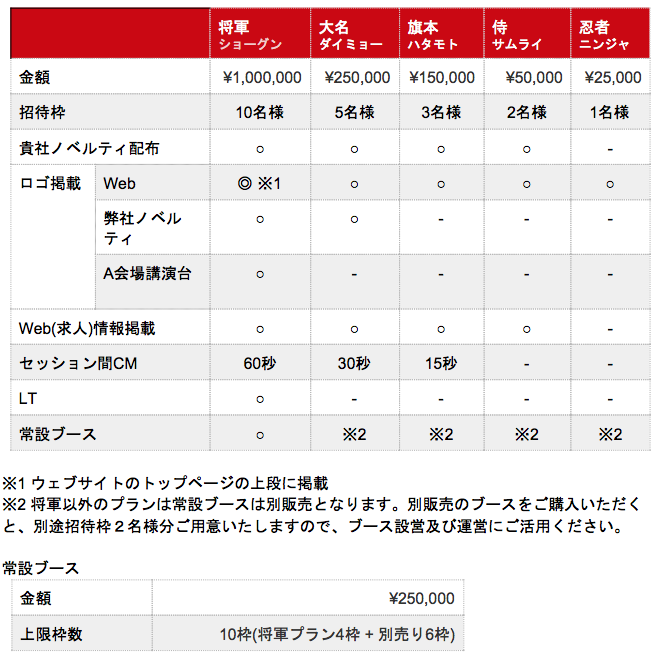
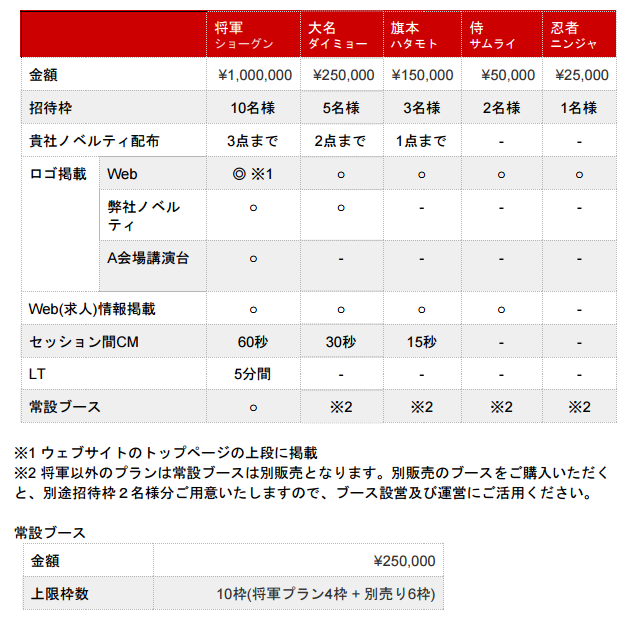
Changed sponsor plan table
Fixes #225

diff --git a/ja/sponsors/index.html b/ja/sponsors/index.html
@@ -27,7 +27,7 @@ title: スポンサー募集
 
 <h2>プラン</h2>
 <div class="alert alert-info" role="alert">将軍プランは先着4枠のみとなっております。</div>
-<!-- <img class="img-responsive" src="plan.png"> -->
+<img class="img-responsive" src="plan.png">
 
 <h2>お申込み</h2>
 <p>
